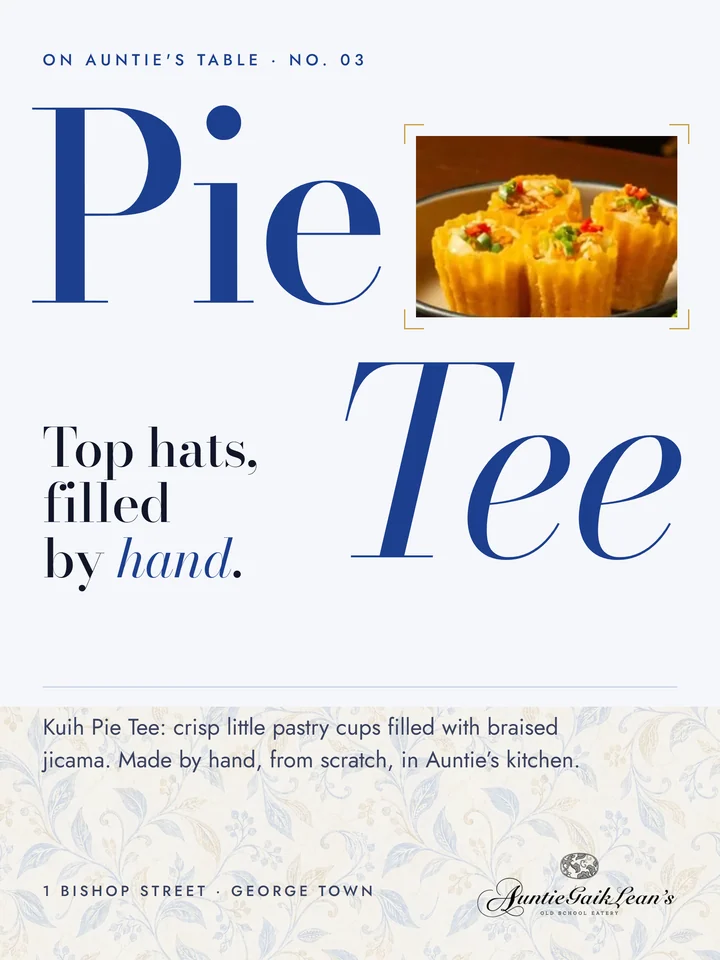
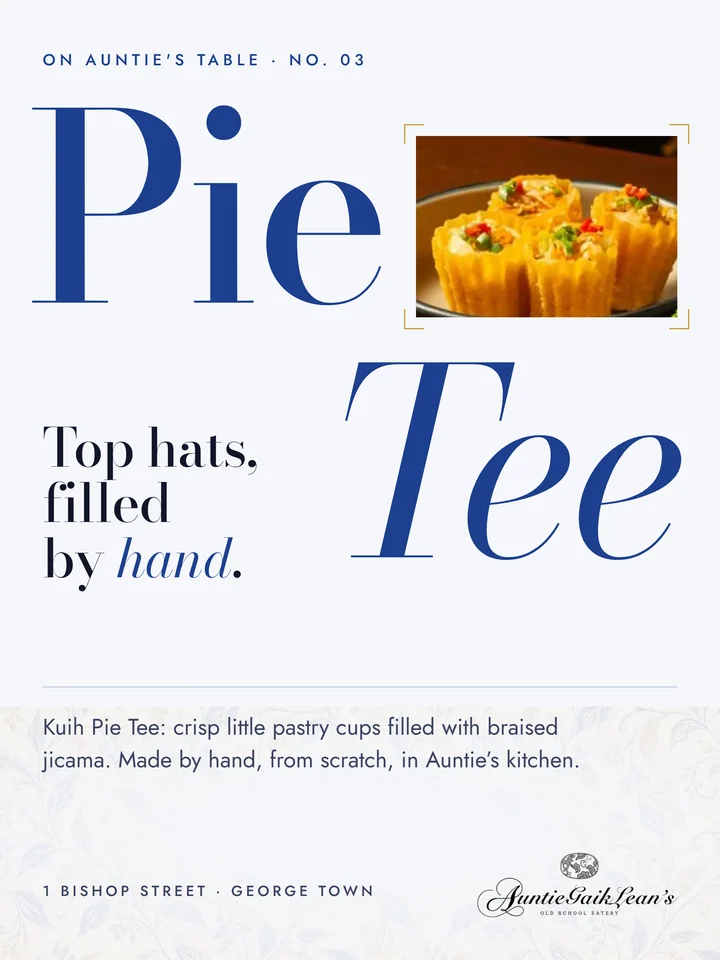
Posts: faint textures with an edge mask, clear behind the type

diff --git a/samples/art/post-04.html b/samples/art/post-04.html
@@ -8,7 +8,7 @@
 /* tamarind brown, mixed from brand tokens (gold-lo + chili, deepened with night) */
 .p4{--tam:color-mix(in srgb,color-mix(in srgb,var(--gold-lo) 68%,var(--chili)) 74%,var(--night));background:var(--night)}
 .p4 .glowbg{position:absolute;inset:0;background:radial-gradient(70% 45% at 70% 28%,rgba(47,92,184,.45),transparent 70%)}
-.p4 .tiles{position:absolute;left:0;top:820px;width:1080px;height:620px;background:url("../../assets/texture/carved-teak-lattice-1280.webp") center/cover;opacity:0.1}
+.p4 .tiles{position:absolute;left:0;top:820px;width:1080px;height:620px;background:url("../../assets/texture/carved-teak-lattice-1280.webp") center/cover;opacity:0.08;-webkit-mask-image:radial-gradient(ellipse 80% 70% at 50% 50%,transparent 20%,#000 100%);mask-image:radial-gradient(ellipse 80% 70% at 50% 50%,transparent 20%,#000 100%)}
 .p4 .band{position:absolute;left:0;top:0;width:184px;height:790px;background:var(--tam)}
 .p4 .band::after{content:"";position:absolute;right:0;top:0;width:1px;height:100%;background:var(--gold);opacity:.6}
 .p4 .lbl.vlab{position:absolute;left:80px;top:64px;height:520px;writing-mode:vertical-rl;transform:rotate(180deg);font-size:24px;color:var(--porcelain);text-align:right;white-space:nowrap}

diff --git a/samples/art/post-01.html b/samples/art/post-01.html
@@ -6,7 +6,7 @@
 <style>
 .p1{background:var(--night)}
 .p1 .glowbg{position:absolute;inset:0;background:radial-gradient(90% 60% at 20% 70%,rgba(29,63,143,.55),transparent 70%)}
-.p1 .tiles{position:absolute;left:0;top:0;width:480px;height:1440px;background:url("../../assets/texture/kebaya-lace-blue-1280.webp") center/cover;opacity:0.15}
+.p1 .tiles{position:absolute;left:0;top:0;width:480px;height:1440px;background:url("../../assets/texture/kebaya-lace-blue-1280.webp") center/cover;opacity:0.13;-webkit-mask-image:radial-gradient(ellipse 80% 70% at 50% 50%,transparent 20%,#000 100%);mask-image:radial-gradient(ellipse 80% 70% at 50% 50%,transparent 20%,#000 100%)}
 .p1 .num{position:absolute;left:56px;top:420px;font-family:var(--f-display);font-weight:500;font-size:440px;line-height:1;letter-spacing:-.04em;color:transparent;-webkit-text-stroke:2px var(--gold);font-variation-settings:"opsz" 28;font-optical-sizing:none}
 .p1 .photo{left:480px;top:0;width:600px;height:930px}
 .p1 .photo img{object-position:50% 12%}

diff --git a/samples/art/post-03.html b/samples/art/post-03.html
@@ -6,7 +6,7 @@
 <style>
 .p3{background:var(--indigo)}
 .p3 .bg{position:absolute;inset:0;background:radial-gradient(70% 50% at 50% 30%,rgba(47,92,184,.55),transparent 75%),linear-gradient(180deg,var(--cobalt) -20%,var(--night) 70%)}
-.p3 .tiles{position:absolute;inset:0;background:url("../../assets/texture/manek-beadwork-1280.webp") center/cover;opacity:0.12}
+.p3 .tiles{position:absolute;inset:0;background:url("../../assets/texture/manek-beadwork-1280.webp") center/cover;opacity:0.1;-webkit-mask-image:radial-gradient(ellipse 80% 70% at 50% 50%,transparent 20%,#000 100%);mask-image:radial-gradient(ellipse 80% 70% at 50% 50%,transparent 20%,#000 100%)}
 .p3 .logo{position:absolute;left:64px;top:64px;width:300px}
 .p3 .handle{position:absolute;left:64px;top:172px;width:300px;line-height:1.5;font-size:20px}
 .p3 .card{position:absolute;left:110px;top:270px;width:820px;height:581px;padding:24px;background:var(--porcelain);transform:rotate(-4deg);box-shadow:0 34px 60px rgba(4,8,24,.55)}

diff --git a/samples/art/post-07.html b/samples/art/post-07.html
@@ -7,7 +7,7 @@
 <style>
 .p7{background:var(--night)}
 .p7 .glowbg{position:absolute;inset:0;background:radial-gradient(48% 30% at 74% 46%,rgba(201,161,74,.22),transparent 70%),radial-gradient(80% 60% at 30% 90%,rgba(29,63,143,.5),transparent 70%)}
-.p7 .tiles{position:absolute;inset:0;background:url("../../assets/texture/gold-lacquer-crackle-1280.webp") center/cover;opacity:0.08}
+.p7 .tiles{position:absolute;inset:0;background:url("../../assets/texture/gold-lacquer-crackle-1280.webp") center/cover;opacity:0.07;-webkit-mask-image:radial-gradient(ellipse 80% 70% at 50% 50%,transparent 20%,#000 100%);mask-image:radial-gradient(ellipse 80% 70% at 50% 50%,transparent 20%,#000 100%)}
 .p7 .logo{position:absolute;left:64px;top:64px;width:300px}
 .p7 .handle{position:absolute;right:64px;top:92px;text-align:right}
 .p7 h1{position:absolute;left:64px;top:206px;font-size:128px;color:var(--porcelain)}

diff --git a/samples/art/post-08.html b/samples/art/post-08.html
@@ -7,7 +7,7 @@
 <style>
 .p8{background:var(--indigo)}
 .p8 .bg{position:absolute;inset:0;background:radial-gradient(60% 45% at 75% 60%,rgba(201,161,74,.18),transparent 70%),linear-gradient(180deg,var(--indigo),var(--night) 85%)}
-.p8 .tiles{position:absolute;inset:0;background:url("../../assets/texture/kebaya-lace-blue-1280.webp") center/cover;opacity:0.15}
+.p8 .tiles{position:absolute;inset:0;background:url("../../assets/texture/kebaya-lace-blue-1280.webp") center/cover;opacity:0.13;-webkit-mask-image:radial-gradient(ellipse 80% 70% at 50% 50%,transparent 20%,#000 100%);mask-image:radial-gradient(ellipse 80% 70% at 50% 50%,transparent 20%,#000 100%)}
 .p8 .logo{position:absolute;left:64px;top:64px;width:300px}
 .p8 .lbl.top{position:absolute;right:64px;top:92px;font-size:24px;color:var(--gold-hi)}
 .p8 h1{position:absolute;left:64px;top:196px;font-size:122px;color:var(--porcelain)}

diff --git a/samples/art/post-02.html b/samples/art/post-02.html
@@ -6,7 +6,7 @@
 <link rel="stylesheet" href="art.css">
 <style>
 .p2{background:var(--porcelain);color:var(--ink)}
-.p2 .band{position:absolute;left:0;top:560px;width:1080px;height:300px;background:url("../../assets/texture/blue-white-wave-cloud-1280.webp") center/cover;opacity:0.35}
+.p2 .band{position:absolute;left:0;top:560px;width:1080px;height:300px;background:url("../../assets/texture/blue-white-wave-cloud-1280.webp") center/cover;opacity:0.28;-webkit-mask-image:radial-gradient(ellipse 80% 70% at 50% 50%,transparent 20%,#000 100%);mask-image:radial-gradient(ellipse 80% 70% at 50% 50%,transparent 20%,#000 100%)}
 .p2 .logo{position:absolute;right:64px;top:64px;width:300px}
 .p2 .lbl{position:absolute;left:64px;top:72px;font-size:24px;color:var(--cobalt);width:520px;line-height:1.5}
 .p2 h1{position:absolute;left:64px;top:190px;font-size:176px;color:var(--cobalt);line-height:.98}

diff --git a/samples/art/post-06.html b/samples/art/post-06.html
@@ -6,7 +6,7 @@
 <link rel="stylesheet" href="art.css">
 <style>
 .p6{background:var(--porcelain);color:var(--ink)}
-.p6 .tiles{position:absolute;left:0;top:1060px;width:1080px;height:380px;background:url("../../assets/texture/batik-line-blue-cream-1280.webp") center/cover;opacity:0.35}
+.p6 .tiles{position:absolute;left:0;top:1060px;width:1080px;height:380px;background:url("../../assets/texture/batik-line-blue-cream-1280.webp") center/cover;opacity:0.28;-webkit-mask-image:radial-gradient(ellipse 80% 70% at 50% 50%,transparent 20%,#000 100%);mask-image:radial-gradient(ellipse 80% 70% at 50% 50%,transparent 20%,#000 100%)}
 .p6 .lbl{position:absolute;left:64px;top:72px;font-size:24px;color:var(--cobalt)}
 .p6 .logo{position:absolute;right:64px;top:1279px;width:300px}
 .p6 .giant{position:absolute;font-size:390px;line-height:1;color:var(--cobalt);letter-spacing:-.03em}

diff --git a/samples/art/post-10.html b/samples/art/post-10.html
@@ -6,7 +6,7 @@
 <link rel="stylesheet" href="art.css">
 <style>
 .p10{background:var(--porcelain);color:var(--ink)}
-.p10 .wall{position:absolute;left:0;top:626px;width:1080px;height:620px;background:url("../../assets/texture/blue-ditsy-florals-1280.webp") center/cover;opacity:0.35}
+.p10 .wall{position:absolute;left:0;top:626px;width:1080px;height:620px;background:url("../../assets/texture/blue-ditsy-florals-1280.webp") center/cover;opacity:0.28;-webkit-mask-image:radial-gradient(ellipse 80% 70% at 50% 50%,transparent 20%,#000 100%);mask-image:radial-gradient(ellipse 80% 70% at 50% 50%,transparent 20%,#000 100%)}
 .p10 .lbl.top{position:absolute;left:64px;top:76px;font-size:24px;color:var(--cobalt)}
 .p10 .logo{position:absolute;right:64px;top:64px;width:300px}
 .p10 h1{position:absolute;left:64px;top:160px;font-size:118px;color:var(--cobalt)}

diff --git a/samples/art/post-14.html b/samples/art/post-14.html
@@ -7,7 +7,7 @@
 <style>
 .p14{background:var(--night)}
 .p14 .glowbg{position:absolute;inset:0;background:radial-gradient(70% 40% at 50% 70%,rgba(29,63,143,.5),transparent 75%)}
-.p14 .tiles{position:absolute;inset:0;background:url("../../assets/texture/kebaya-lace-blue-1280.webp") center/cover;opacity:0.14}
+.p14 .tiles{position:absolute;inset:0;background:url("../../assets/texture/kebaya-lace-blue-1280.webp") center/cover;opacity:0.11;-webkit-mask-image:radial-gradient(ellipse 80% 70% at 50% 50%,transparent 20%,#000 100%);mask-image:radial-gradient(ellipse 80% 70% at 50% 50%,transparent 20%,#000 100%)}
 .p14 .lbl.top{position:absolute;left:64px;top:76px;font-size:24px;color:var(--gold-hi)}
 .p14 .logo{position:absolute;right:64px;top:64px;width:300px}
 .p14 h1{position:absolute;left:64px;top:140px;font-size:158px;color:var(--porcelain)}

diff --git a/samples/art/post-09.html b/samples/art/post-09.html
@@ -7,7 +7,7 @@
 <style>
 .p9{background:var(--night)}
 .p9 .glowbg{position:absolute;inset:0;background:radial-gradient(46% 34% at 50% 59%,rgba(29,63,143,.55),transparent 75%)}
-.p9 .tiles{position:absolute;inset:0;background:url("../../assets/texture/manek-beadwork-1280.webp") center/cover;opacity:0.11}
+.p9 .tiles{position:absolute;inset:0;background:url("../../assets/texture/manek-beadwork-1280.webp") center/cover;opacity:0.1;-webkit-mask-image:radial-gradient(ellipse 80% 70% at 50% 50%,transparent 20%,#000 100%);mask-image:radial-gradient(ellipse 80% 70% at 50% 50%,transparent 20%,#000 100%)}
 .p9 .lbl.top{position:absolute;left:64px;top:76px;font-size:24px;color:var(--gold-hi)}
 .p9 .logo{position:absolute;right:64px;top:64px;width:300px}
 .p9 h1{position:absolute;left:64px;top:188px;font-size:108px;color:var(--porcelain)}

diff --git a/samples/art/post-12.html b/samples/art/post-12.html
@@ -7,7 +7,7 @@
 <style>
 .p12{background:var(--night)}
 .p12 .glowbg{position:absolute;inset:0;background:radial-gradient(70% 30% at 50% 52%,rgba(47,92,184,.45),transparent 75%)}
-.p12 .tiles{position:absolute;inset:0;background:url("../../assets/texture/carved-teak-lattice-1280.webp") center/cover;opacity:0.09}
+.p12 .tiles{position:absolute;inset:0;background:url("../../assets/texture/carved-teak-lattice-1280.webp") center/cover;opacity:0.08;-webkit-mask-image:radial-gradient(ellipse 80% 70% at 50% 50%,transparent 20%,#000 100%);mask-image:radial-gradient(ellipse 80% 70% at 50% 50%,transparent 20%,#000 100%)}
 .p12 .logo{position:absolute;left:64px;top:64px;width:300px}
 .p12 .handle{position:absolute;right:64px;top:92px;text-align:right}
 .p12 h1{position:absolute;left:64px;top:196px;font-size:118px;color:var(--porcelain)}

diff --git a/samples/art/post-11.html b/samples/art/post-11.html
@@ -6,7 +6,7 @@
 <link rel="stylesheet" href="art.css">
 <style>
 .p11{background:var(--porcelain-2);color:var(--ink)}
-.p11 .tiles{position:absolute;inset:0;background:url("../../assets/texture/phoenix-peony-gold-1280.webp") center/cover;opacity:0.45}
+.p11 .tiles{position:absolute;inset:0;background:url("../../assets/texture/phoenix-peony-gold-1280.webp") center/cover;opacity:0.39;-webkit-mask-image:radial-gradient(ellipse 80% 70% at 50% 50%,transparent 20%,#000 100%);mask-image:radial-gradient(ellipse 80% 70% at 50% 50%,transparent 20%,#000 100%)}
 .p11 .shade{position:absolute;inset:0;background:radial-gradient(70% 50% at 50% 68%,transparent 40%,rgba(29,63,143,.10) 100%)}
 .p11 .logo{position:absolute;left:64px;top:64px;width:300px}
 .p11 .lbl.top{position:absolute;right:64px;top:92px;font-size:24px;color:var(--cobalt)}
